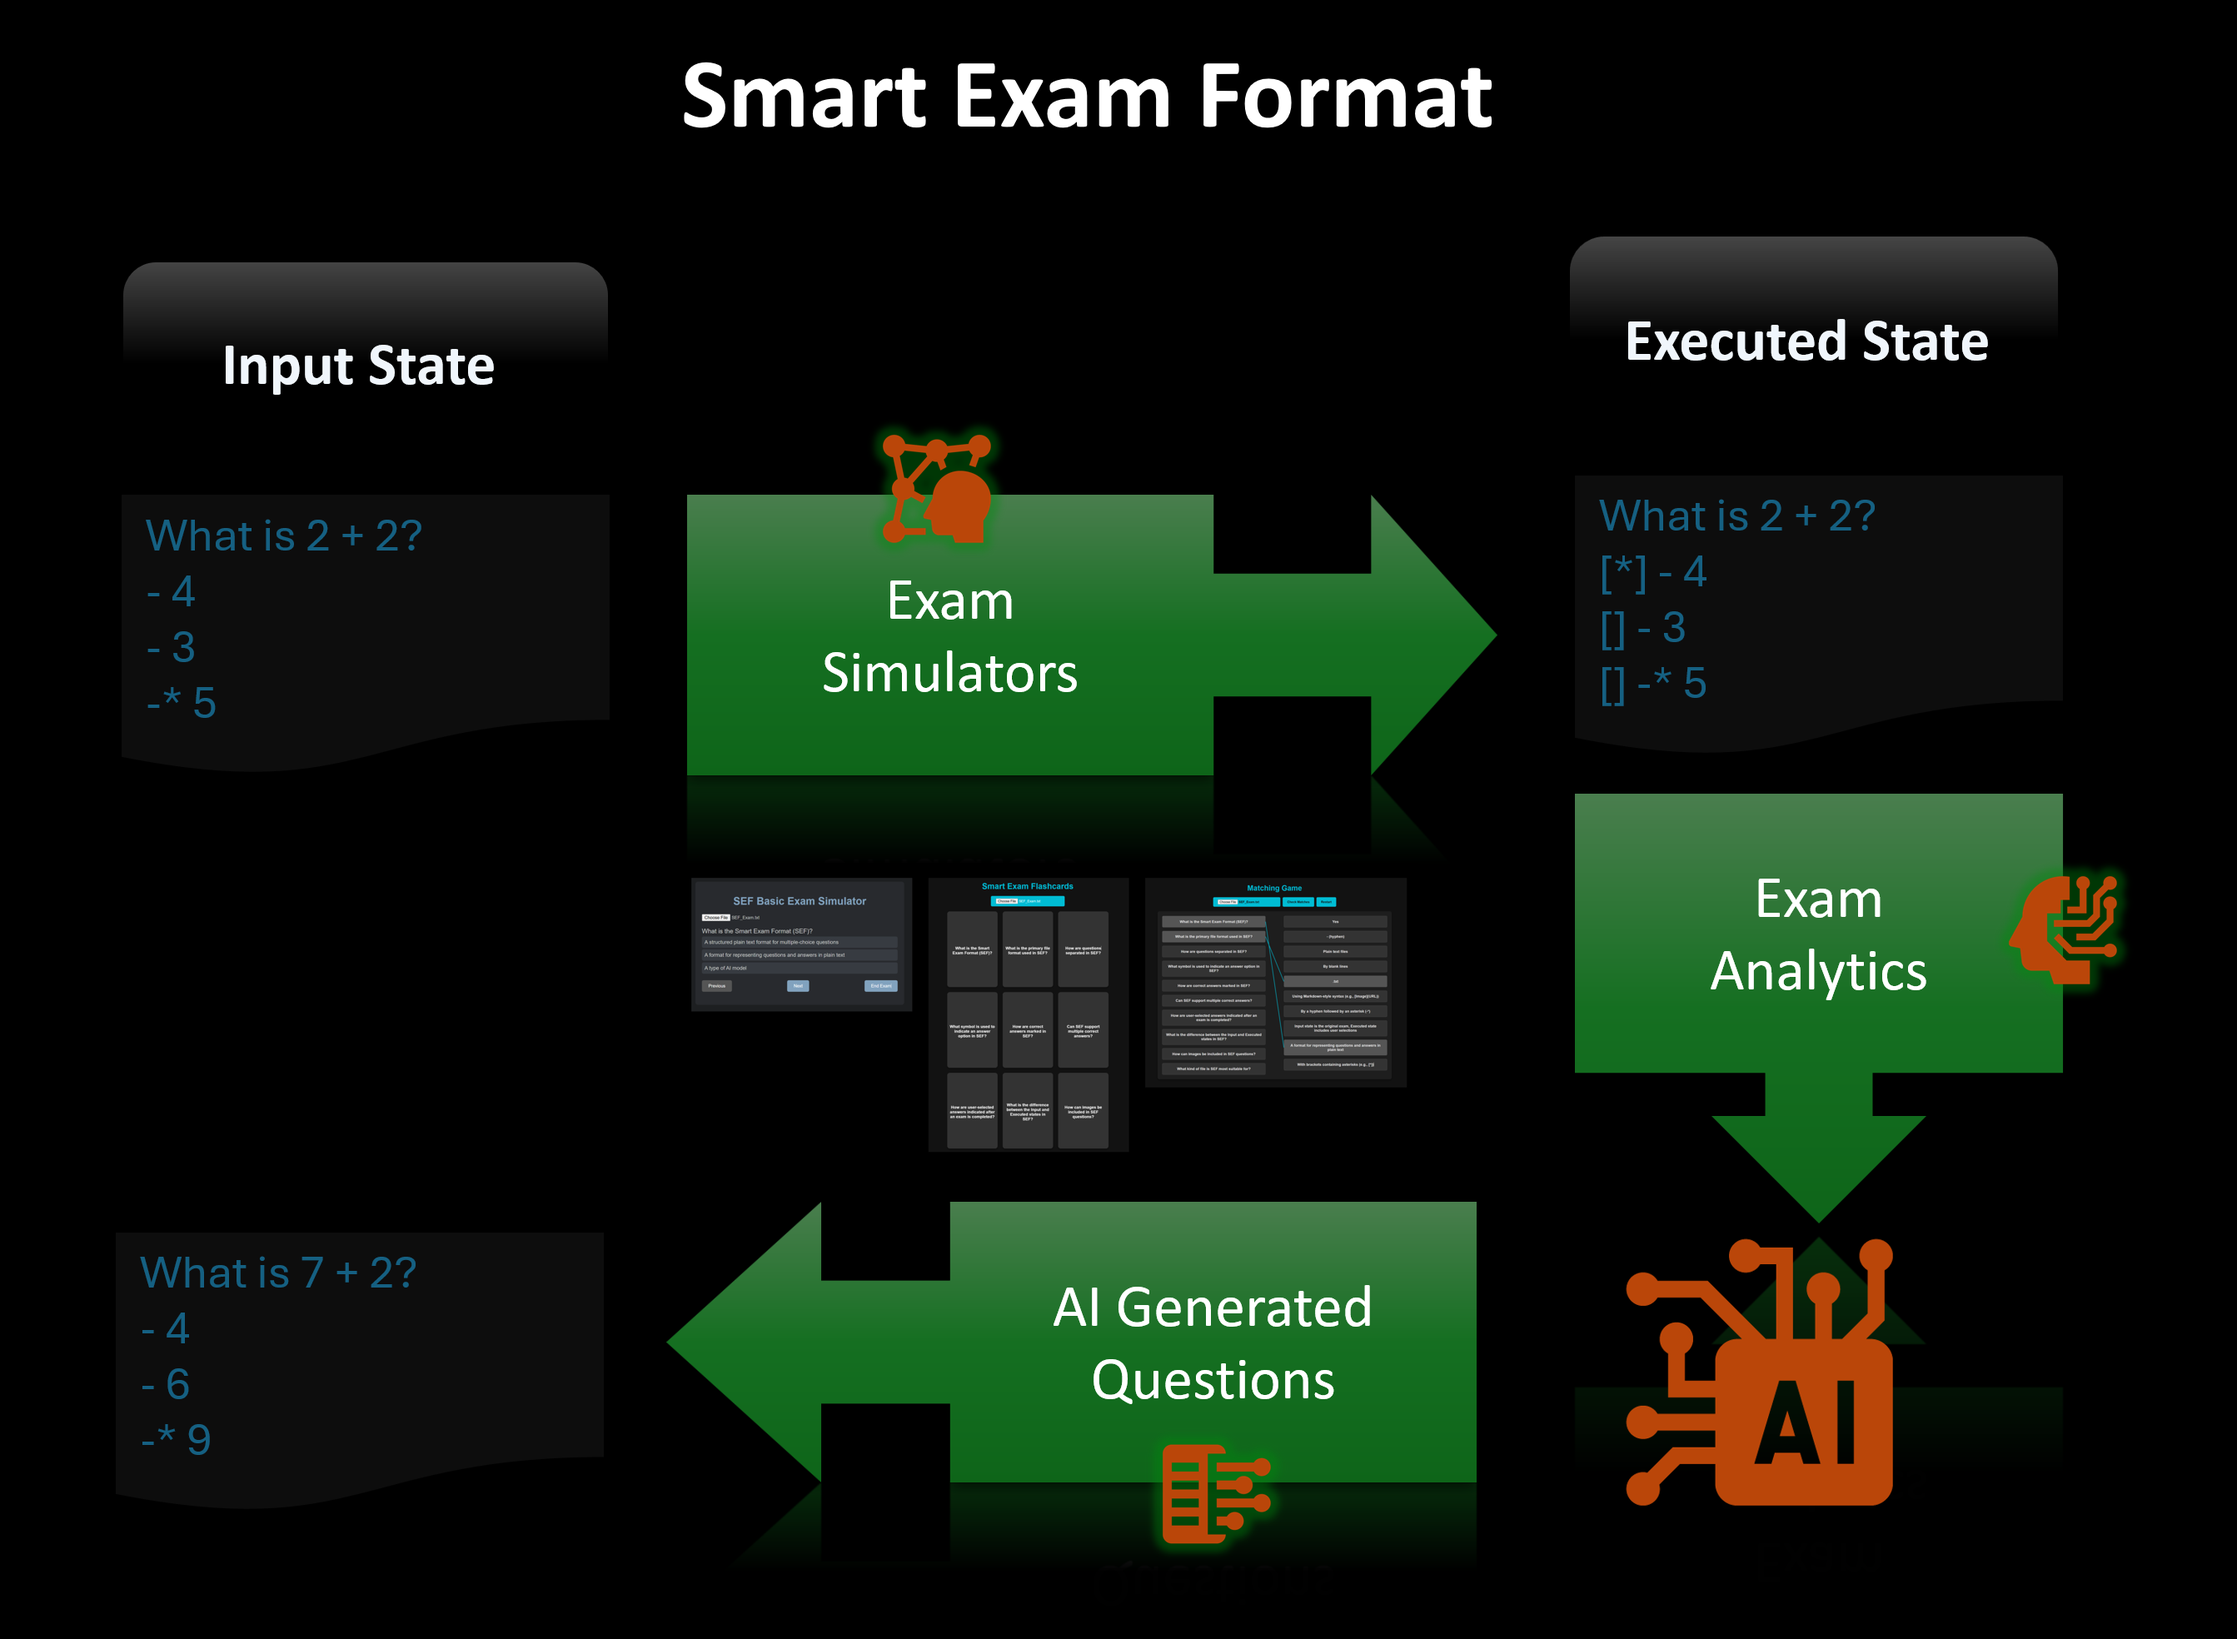
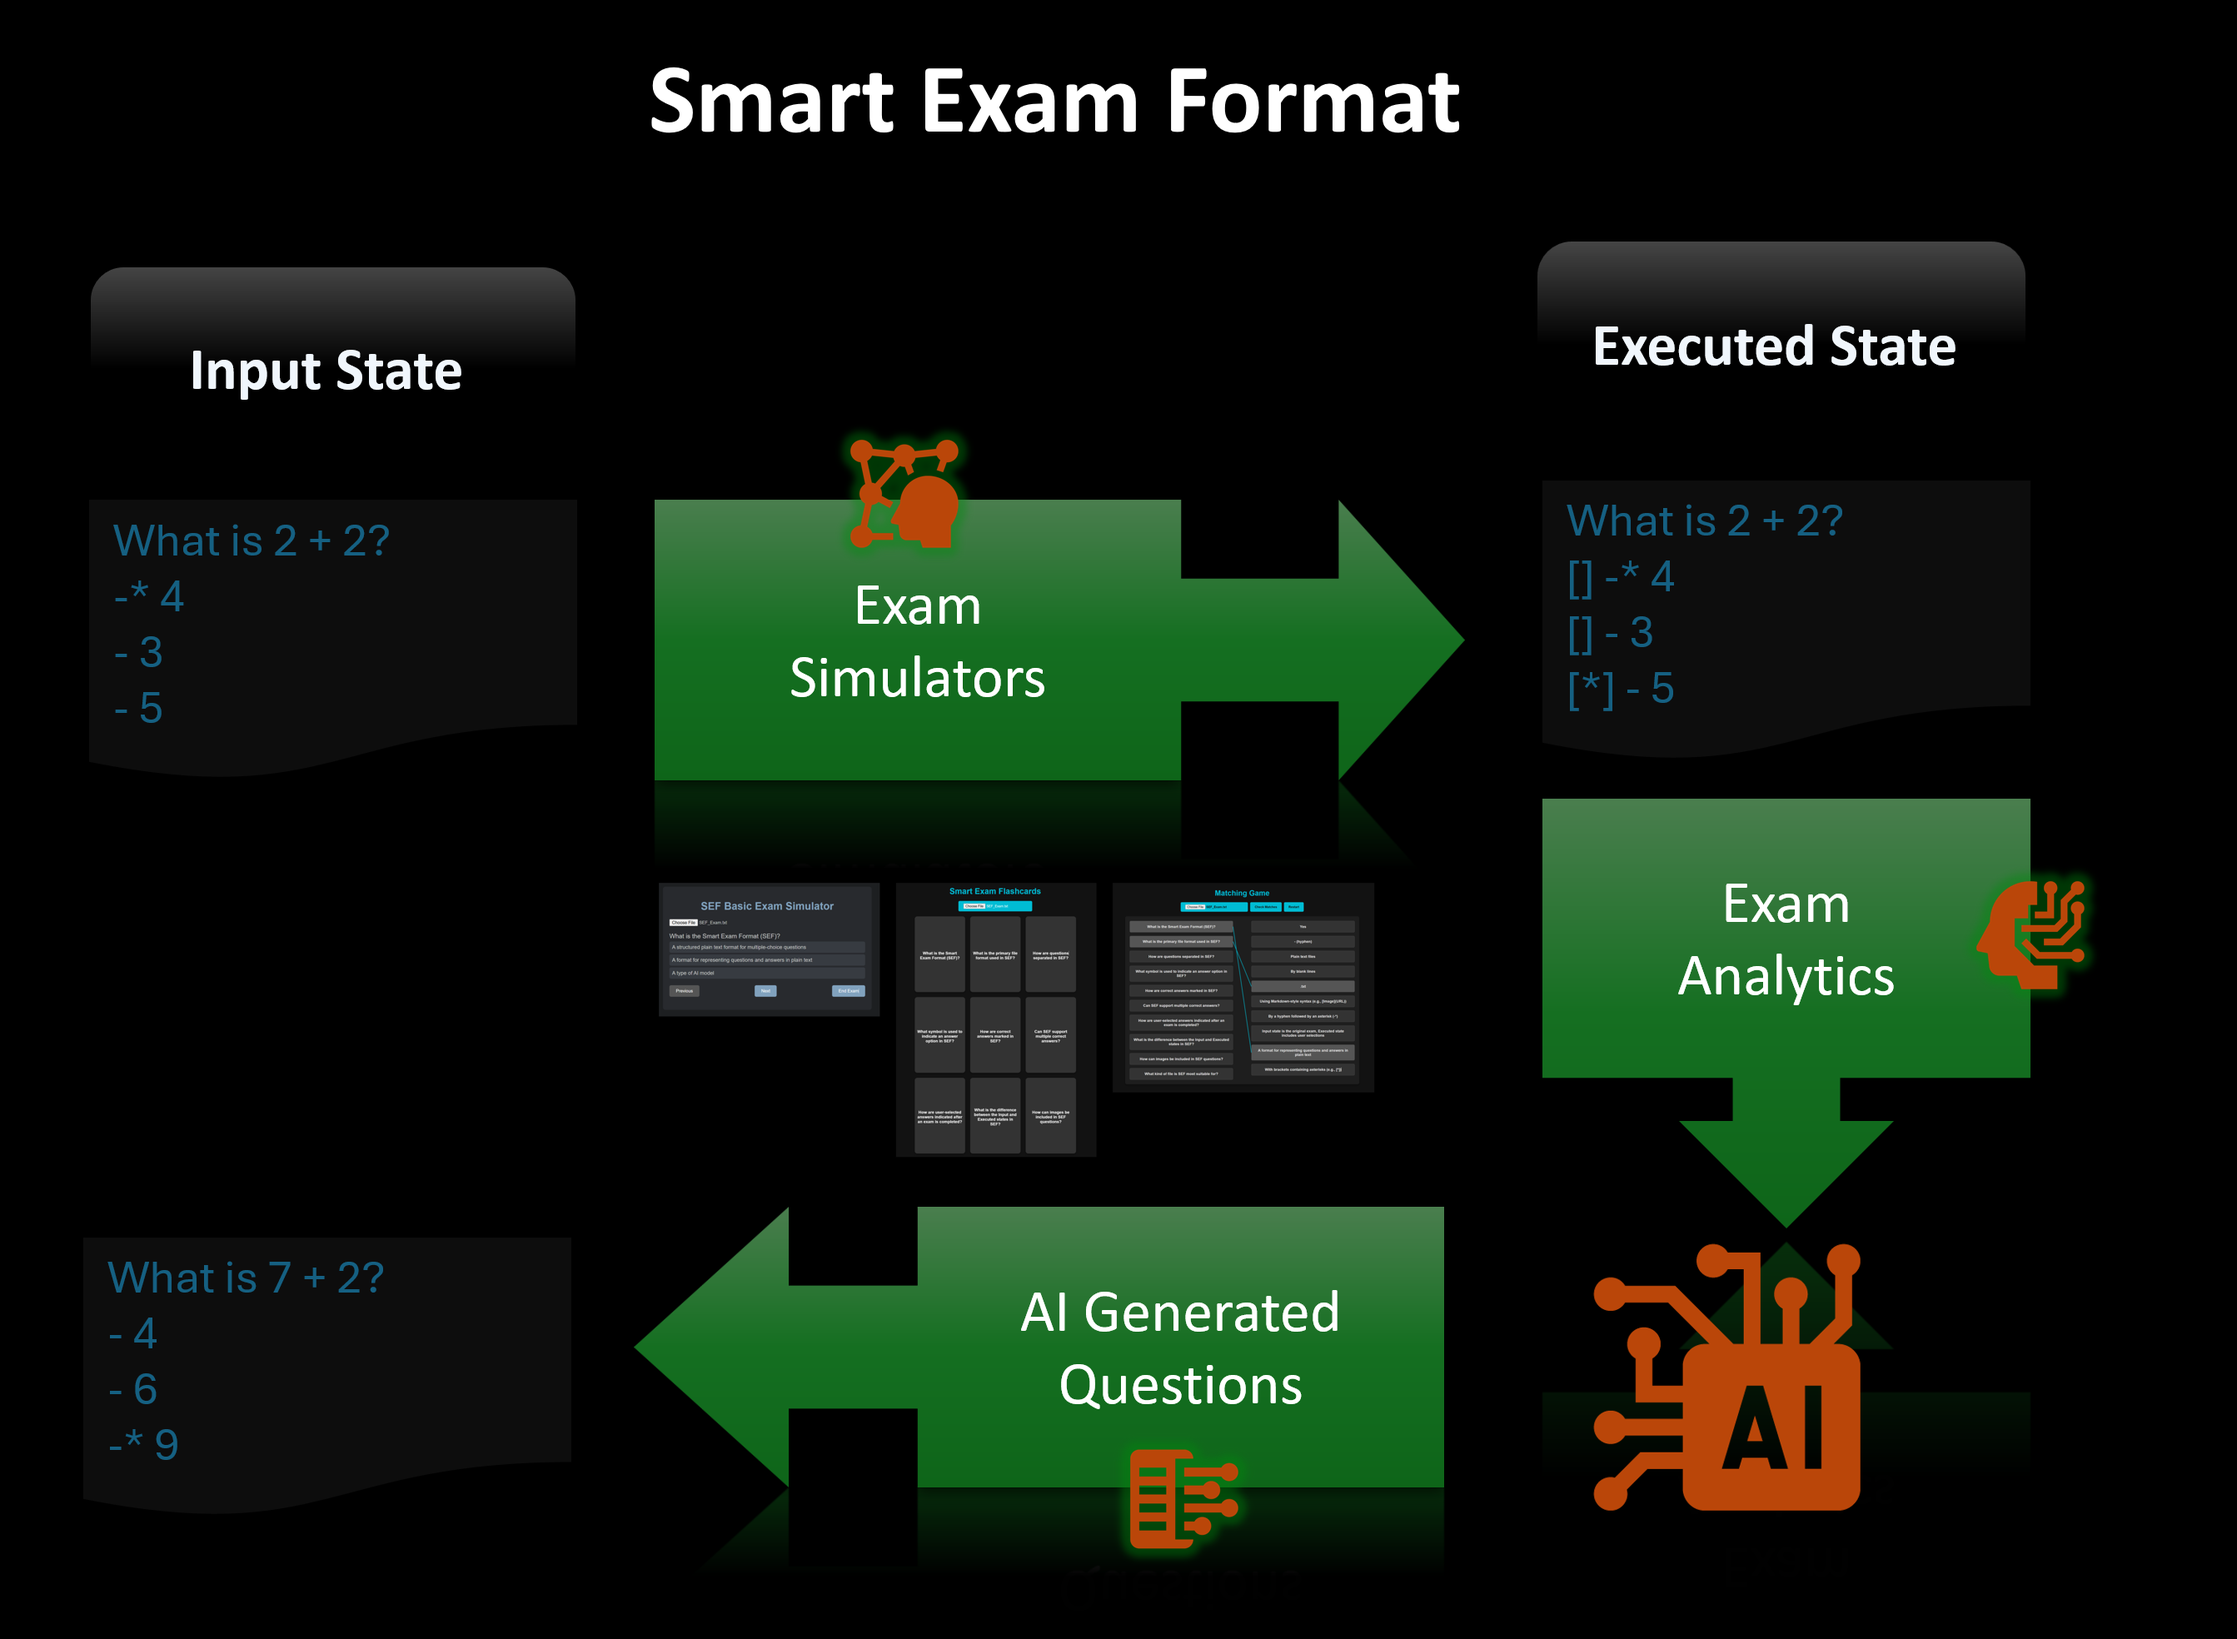
Typo
Typo fixes

diff --git a/README.md b/README.md
@@ -65,17 +65,17 @@ SEF is uniquely structured with two distinct states:
 **Input State Example:**
 ```
 What is 2 + 2?
-- 4
+-* 4
 - 3
--* 5
+- 5
 ```
 
 **Executed State Example:**
 ```
 What is 2 + 2?
-[*] - 4
+[] -* 4
 [] - 3
-[] -* 5
+[*] - 5
 ```
 
 ---
